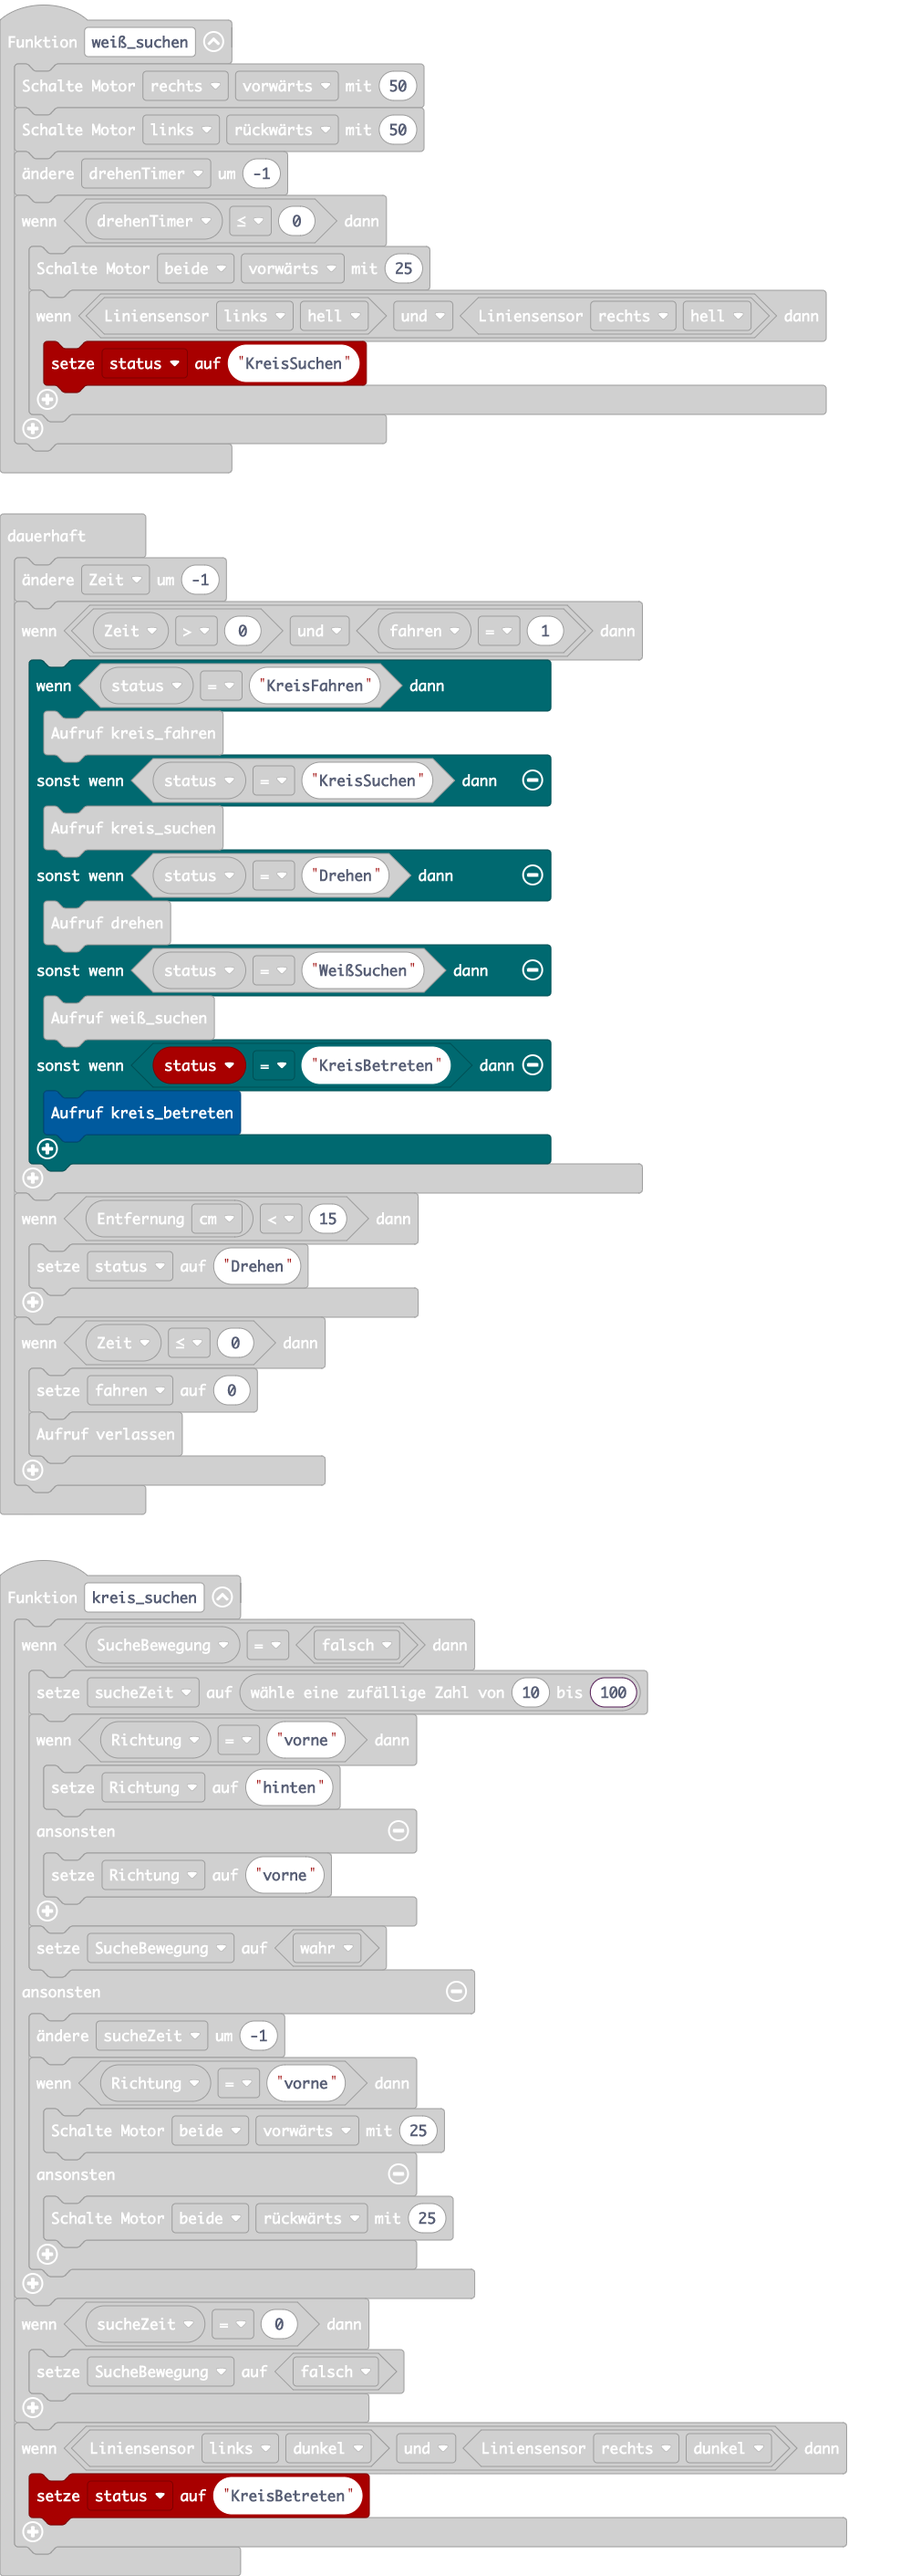
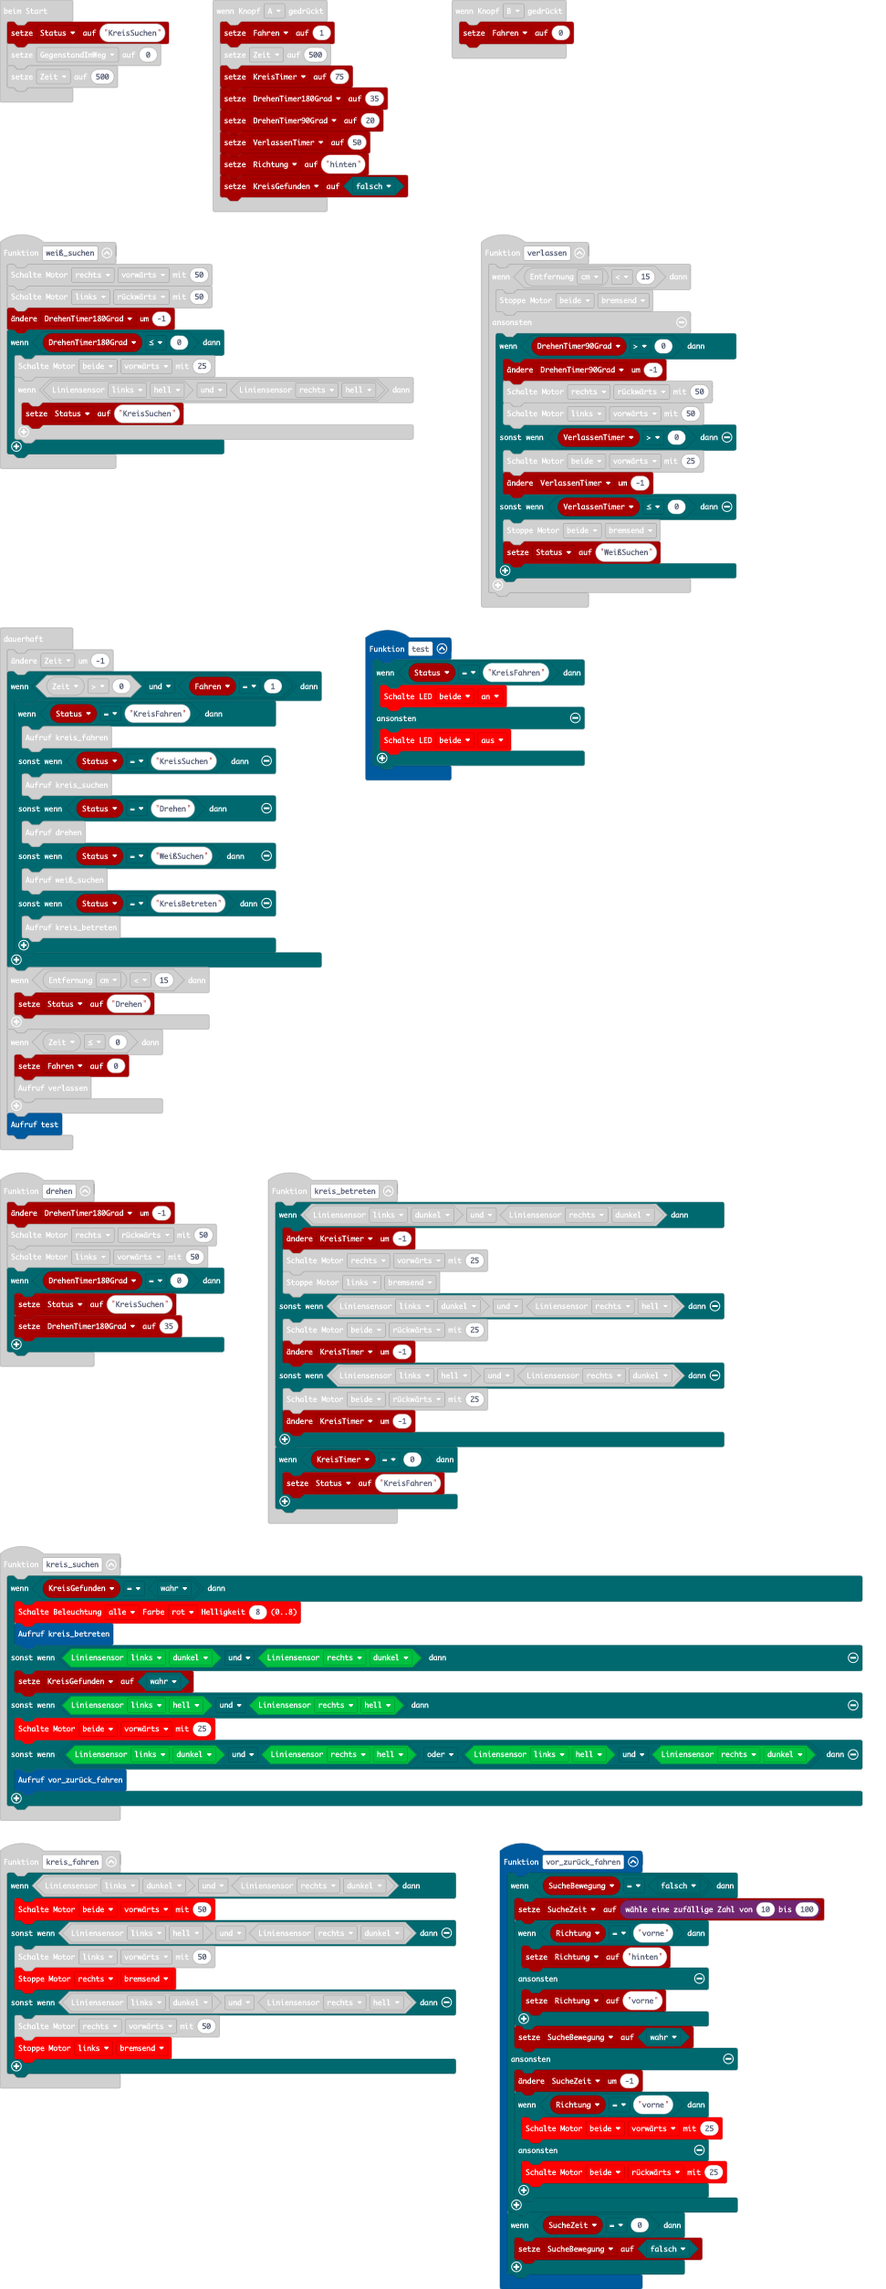
Aktualisiere main.blocks, main.ts

diff --git a/main.ts b/main.ts
@@ -1,70 +1,32 @@
 function drehen () {
-    drehenTimer += -1
+    DrehenTimer180Grad += -1
     callibot.motor(KMotor.rechts, KDir.rückwärts, 50)
     callibot.motor(KMotor.links, KDir.vorwärts, 50)
-    if (drehenTimer == 0) {
-        status = "KreisSuchen"
-        drehenTimer = 35
+    if (DrehenTimer180Grad == 0) {
+        Status = "KreisSuchen"
+        DrehenTimer180Grad = 35
     }
 }
 function verlassen () {
     if (callibot.entfernung(KEinheit.cm) < 15) {
         callibot.motorStop(KMotor.beide, KStop.Bremsen)
     } else {
-        if (drehenTimer90Grad > 0) {
-            drehenTimer90Grad += -1
+        if (DrehenTimer90Grad > 0) {
+            DrehenTimer90Grad += -1
             callibot.motor(KMotor.rechts, KDir.rückwärts, 50)
             callibot.motor(KMotor.links, KDir.vorwärts, 50)
-        } else if (verlassenTimer > 0) {
+        } else if (VerlassenTimer > 0) {
             callibot.motor(KMotor.beide, KDir.vorwärts, 25)
-            verlassenTimer += -1
-        } else if (verlassenTimer <= 0) {
+            VerlassenTimer += -1
+        } else if (VerlassenTimer <= 0) {
             callibot.motorStop(KMotor.beide, KStop.Bremsen)
-            status = "WeißSuchen"
+            Status = "WeißSuchen"
         }
     }
 }
-input.onButtonPressed(Button.A, function () {
-    fahren = 1
-    Zeit = 500
-    kreisTimer = 75
-    drehenTimer = 35
-    drehenTimer90Grad = 20
-    verlassenTimer = 50
-    Richtung = "vorne"
-})
-function kreis_betreten () {
-    if (callibot.readLineSensor(KSensor.links, KSensorStatus.dunkel) && callibot.readLineSensor(KSensor.rechts, KSensorStatus.dunkel)) {
-        kreisTimer += -1
-        callibot.motor(KMotor.rechts, KDir.vorwärts, 25)
-        callibot.motorStop(KMotor.links, KStop.Bremsen)
-    } else if (callibot.readLineSensor(KSensor.links, KSensorStatus.dunkel) && callibot.readLineSensor(KSensor.rechts, KSensorStatus.hell)) {
-        callibot.motor(KMotor.beide, KDir.rückwärts, 25)
-        kreisTimer += -1
-    } else if (callibot.readLineSensor(KSensor.links, KSensorStatus.hell) && callibot.readLineSensor(KSensor.rechts, KSensorStatus.dunkel)) {
-        callibot.motor(KMotor.beide, KDir.rückwärts, 25)
-        kreisTimer += -1
-    } else {
-        callibot.motor(KMotor.beide, KDir.vorwärts, 25)
-    }
-    if (kreisTimer == 0) {
-        status = "KreisFahren"
-    }
-}
-function weiß_suchen () {
-    callibot.motor(KMotor.rechts, KDir.vorwärts, 50)
-    callibot.motor(KMotor.links, KDir.rückwärts, 50)
-    drehenTimer += -1
-    if (drehenTimer <= 0) {
-        callibot.motor(KMotor.beide, KDir.vorwärts, 25)
-        if (callibot.readLineSensor(KSensor.links, KSensorStatus.hell) && callibot.readLineSensor(KSensor.rechts, KSensorStatus.hell)) {
-            status = "KreisSuchen"
-        }
-    }
-}
-function kreis_suchen () {
+function vor_zurück_fahren () {
     if (SucheBewegung == false) {
-        sucheZeit = randint(10, 100)
+        SucheZeit = randint(10, 100)
         if (Richtung == "vorne") {
             Richtung = "hinten"
         } else {
@@ -72,75 +34,122 @@ function kreis_suchen () {
         }
         SucheBewegung = true
     } else {
-        sucheZeit += -1
+        SucheZeit += -1
         if (Richtung == "vorne") {
             callibot.motor(KMotor.beide, KDir.vorwärts, 25)
         } else {
             callibot.motor(KMotor.beide, KDir.rückwärts, 25)
         }
     }
-    if (sucheZeit == 0) {
+    if (SucheZeit == 0) {
         SucheBewegung = false
     }
+}
+input.onButtonPressed(Button.A, function () {
+    Fahren = 1
+    Zeit = 500
+    KreisTimer = 75
+    DrehenTimer180Grad = 35
+    DrehenTimer90Grad = 20
+    VerlassenTimer = 50
+    Richtung = "hinten"
+    KreisGefunden = false
+})
+function kreis_betreten () {
     if (callibot.readLineSensor(KSensor.links, KSensorStatus.dunkel) && callibot.readLineSensor(KSensor.rechts, KSensorStatus.dunkel)) {
-        status = "KreisBetreten"
+        KreisTimer += -1
+        callibot.motor(KMotor.rechts, KDir.vorwärts, 25)
+        callibot.motorStop(KMotor.links, KStop.Bremsen)
+    } else if (callibot.readLineSensor(KSensor.links, KSensorStatus.dunkel) && callibot.readLineSensor(KSensor.rechts, KSensorStatus.hell)) {
+        callibot.motor(KMotor.beide, KDir.rückwärts, 25)
+        KreisTimer += -1
+    } else if (callibot.readLineSensor(KSensor.links, KSensorStatus.hell) && callibot.readLineSensor(KSensor.rechts, KSensorStatus.dunkel)) {
+        callibot.motor(KMotor.beide, KDir.rückwärts, 25)
+        KreisTimer += -1
+    }
+    if (KreisTimer == 0) {
+        Status = "KreisFahren"
+    }
+}
+function weiß_suchen () {
+    callibot.motor(KMotor.rechts, KDir.vorwärts, 50)
+    callibot.motor(KMotor.links, KDir.rückwärts, 50)
+    DrehenTimer180Grad += -1
+    if (DrehenTimer180Grad <= 0) {
+        callibot.motor(KMotor.beide, KDir.vorwärts, 25)
+        if (callibot.readLineSensor(KSensor.links, KSensorStatus.hell) && callibot.readLineSensor(KSensor.rechts, KSensorStatus.hell)) {
+            Status = "KreisSuchen"
+        }
+    }
+}
+function test () {
+    if (Status == "KreisFahren") {
+        callibot.setLed(KMotor.beide, KState.an)
+    } else {
+        callibot.setLed(KMotor.beide, KState.aus)
+    }
+}
+function kreis_suchen () {
+    if (KreisGefunden == true) {
+        callibot.setRgbLed(KRgbLed.All, KRgbColor.rot, 8)
+        kreis_betreten()
+    } else if (callibot.readLineSensor(KSensor.links, KSensorStatus.dunkel) && callibot.readLineSensor(KSensor.rechts, KSensorStatus.dunkel)) {
+        KreisGefunden = true
+    } else if (callibot.readLineSensor(KSensor.links, KSensorStatus.hell) && callibot.readLineSensor(KSensor.rechts, KSensorStatus.hell)) {
+        callibot.motor(KMotor.beide, KDir.vorwärts, 25)
+    } else if (callibot.readLineSensor(KSensor.links, KSensorStatus.dunkel) && callibot.readLineSensor(KSensor.rechts, KSensorStatus.hell) || callibot.readLineSensor(KSensor.links, KSensorStatus.hell) && callibot.readLineSensor(KSensor.rechts, KSensorStatus.dunkel)) {
+        vor_zurück_fahren()
     }
 }
 input.onButtonPressed(Button.B, function () {
-    fahren = 0
+    Fahren = 0
 })
 function kreis_fahren () {
     if (callibot.readLineSensor(KSensor.links, KSensorStatus.dunkel) && callibot.readLineSensor(KSensor.rechts, KSensorStatus.dunkel)) {
         callibot.motor(KMotor.beide, KDir.vorwärts, 50)
-        callibot.setLed(KMotor.beide, KState.an)
     } else if (callibot.readLineSensor(KSensor.links, KSensorStatus.hell) && callibot.readLineSensor(KSensor.rechts, KSensorStatus.dunkel)) {
         callibot.motor(KMotor.links, KDir.vorwärts, 50)
-        callibot.motorStop(KMotor.rechts, KStop.Frei)
-        callibot.setLed(KMotor.links, KState.aus)
-        callibot.setLed(KMotor.rechts, KState.an)
+        callibot.motorStop(KMotor.rechts, KStop.Bremsen)
     } else if (callibot.readLineSensor(KSensor.links, KSensorStatus.dunkel) && callibot.readLineSensor(KSensor.rechts, KSensorStatus.hell)) {
         callibot.motor(KMotor.rechts, KDir.vorwärts, 50)
-        callibot.motorStop(KMotor.links, KStop.Frei)
-        callibot.setLed(KMotor.rechts, KState.aus)
-        callibot.setLed(KMotor.links, KState.an)
-    } else {
-        status = "KreisSuchen"
-        kreisTimer += 75
+        callibot.motorStop(KMotor.links, KStop.Bremsen)
     }
 }
-let sucheZeit = 0
-let SucheBewegung = false
+let KreisGefunden = false
+let KreisTimer = 0
+let Fahren = 0
 let Richtung = ""
-let kreisTimer = 0
-let fahren = 0
-let verlassenTimer = 0
-let drehenTimer90Grad = 0
-let drehenTimer = 0
+let SucheZeit = 0
+let SucheBewegung = false
+let VerlassenTimer = 0
+let DrehenTimer90Grad = 0
+let DrehenTimer180Grad = 0
 let Zeit = 0
-let status = ""
-status = "KreisSuchen"
+let Status = ""
+Status = "KreisSuchen"
 let GegenstandImWeg = 0
 Zeit = 500
 basic.forever(function () {
     Zeit += -1
-    if (Zeit > 0 && fahren == 1) {
-        if (status == "KreisFahren") {
+    if (Zeit > 0 && Fahren == 1) {
+        if (Status == "KreisFahren") {
             kreis_fahren()
-        } else if (status == "KreisSuchen") {
+        } else if (Status == "KreisSuchen") {
             kreis_suchen()
-        } else if (status == "Drehen") {
+        } else if (Status == "Drehen") {
             drehen()
-        } else if (status == "WeißSuchen") {
+        } else if (Status == "WeißSuchen") {
             weiß_suchen()
-        } else if (status == "KreisBetreten") {
+        } else if (Status == "KreisBetreten") {
             kreis_betreten()
         }
     }
     if (callibot.entfernung(KEinheit.cm) < 15) {
-        status = "Drehen"
+        Status = "Drehen"
     }
     if (Zeit <= 0) {
-        fahren = 0
+        Fahren = 0
         verlassen()
     }
+    test()
 })
